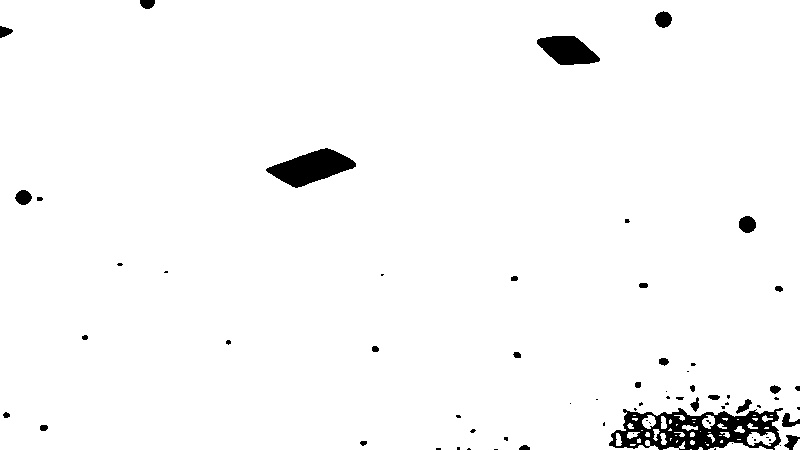
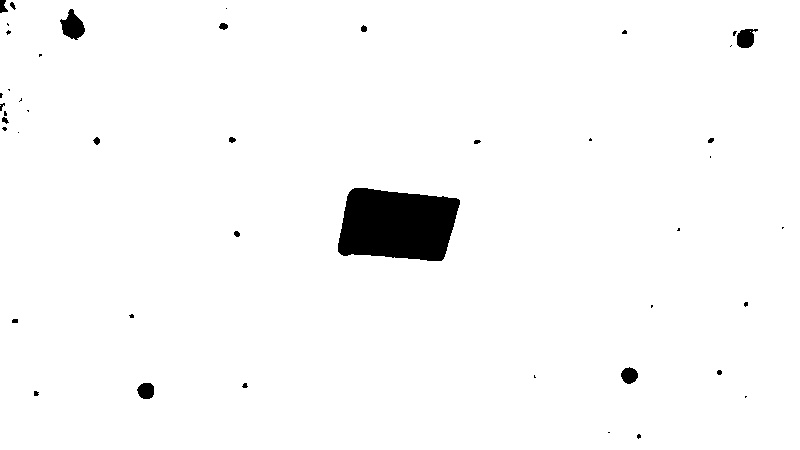
Silly

diff --git a/llocal.py b/llocal.py
@@ -5,10 +5,10 @@ from collections import deque
 import argparse
 import imutils
 
-cap1 = cv2.VideoCapture(1)
-cap2 = cqp1
-#cap1 = cv2.VideoCapture('http://rit2014044:iiita665@172.16.15.215:8081/?action=stream?dummy=param.mjpg')
-#cap2 = cv2.VideoCapture('http://rit2014044:iiita665@172.16.15.245:8081/?action=stream?dummy=param.mjpg')
+#cap1 = cv2.VideoCapture(1)
+#cap1 = cv2.VideoCapture('http://172.16.15.215:8081/')
+cap1 = cv2.VideoCapture('http://rit2014044:iiita665@172.16.15.215:8081/?action=stream?dummy=param.mjpg')
+cap2 = cv2.VideoCapture('http://rit2014044:iiita665@172.16.15.245:8081/?action=stream?dummy=param.mjpg')
 cap3=cap1
 cap4=cap1
 #cap3 = cv2.VideoCapture(2)
@@ -29,8 +29,8 @@ def local(xx):
 	global Pa,Pb,Pc,Pd,goal,greenUpper,greenLower
 	if xx==1:
 		ret, frame = cap1.read()
-		greenLower = (23, 29, 20)
-		greenUpper = (78, 100, 100)
+		#greenLower = (23, 29, 20)
+		#greenUpper = (78, 100, 100)
 	if xx==2:
 		ret, frame = cap2.read()
 	if xx==3:
@@ -81,7 +81,7 @@ def local(xx):
 				if xx == 4:
 					temp=np.array([X,Y])
 					Pd=np.vstack((Pd,temp))
-                #cv2.drawContours(img,[c], -1, (0,255,0), 3)
+				cv2.drawContours(img,[c], -1, (0,255,0), 3)
                 if xx==1:
 				 cv2.imshow('frame',img)
 		# Display the resulting frame
@@ -132,7 +132,7 @@ while(cap1.isOpened()):
 		break
 # When everything done, release the capture
 cap1.release()
-cap2.release()
+#cap2.release()
 cap3.release()
 cap4.release()
 cv2.destroyAllWindows()

diff --git a/cut_black_edge.py b/cut_black_edge.py
@@ -22,8 +22,8 @@ def cut(size):
             area = cv2.contourArea(c)
             x,y,w,h = cv2.boundingRect(c)
             #cv2.rectangle(mask,(x,y),(x+w,y+h),(128,255,0),18)
-            #print(area)
-            if area < 3000:
+            print(area)
+            if area < 10000:
                 x,y,w,h = cv2.boundingRect(c)
                 #print (x,y,w,h)
                 cv2.drawContours(mask, [c], -1, (128,255,0), -1)
@@ -52,7 +52,7 @@ def cut(size):
         cv2.imwrite('./input/Output.jpg', im_done)
         cv2.waitKey(0)
 
-cut(2)
+cut(1)
 a=cv2.imread('./input/Output.jpg')
 a=cv2.bitwise_not(a)
 cv2.imwrite('./input/Output.jpg', a)

diff --git a/black_white.py b/black_white.py
@@ -9,4 +9,4 @@ def color_correct(size):
         name1 = "input/C"+str(i)+"/bw.jpg"
         cv2.imwrite(name1,img1)
 
-color_correct(2)
+color_correct(1)

diff --git a/save_top.py b/save_top.py
@@ -21,4 +21,4 @@ def main(size):
         name1 = "./input/C"+str(i)+"/perss2.jpg"
         final_pers_adj(name, name1, i)
 
-main(2)
+main(1)

diff --git a/edit.py b/edit.py
@@ -36,4 +36,4 @@ def main(size):
     resizex(size)
     dots(size)
 
-main(2)
+main(1)
